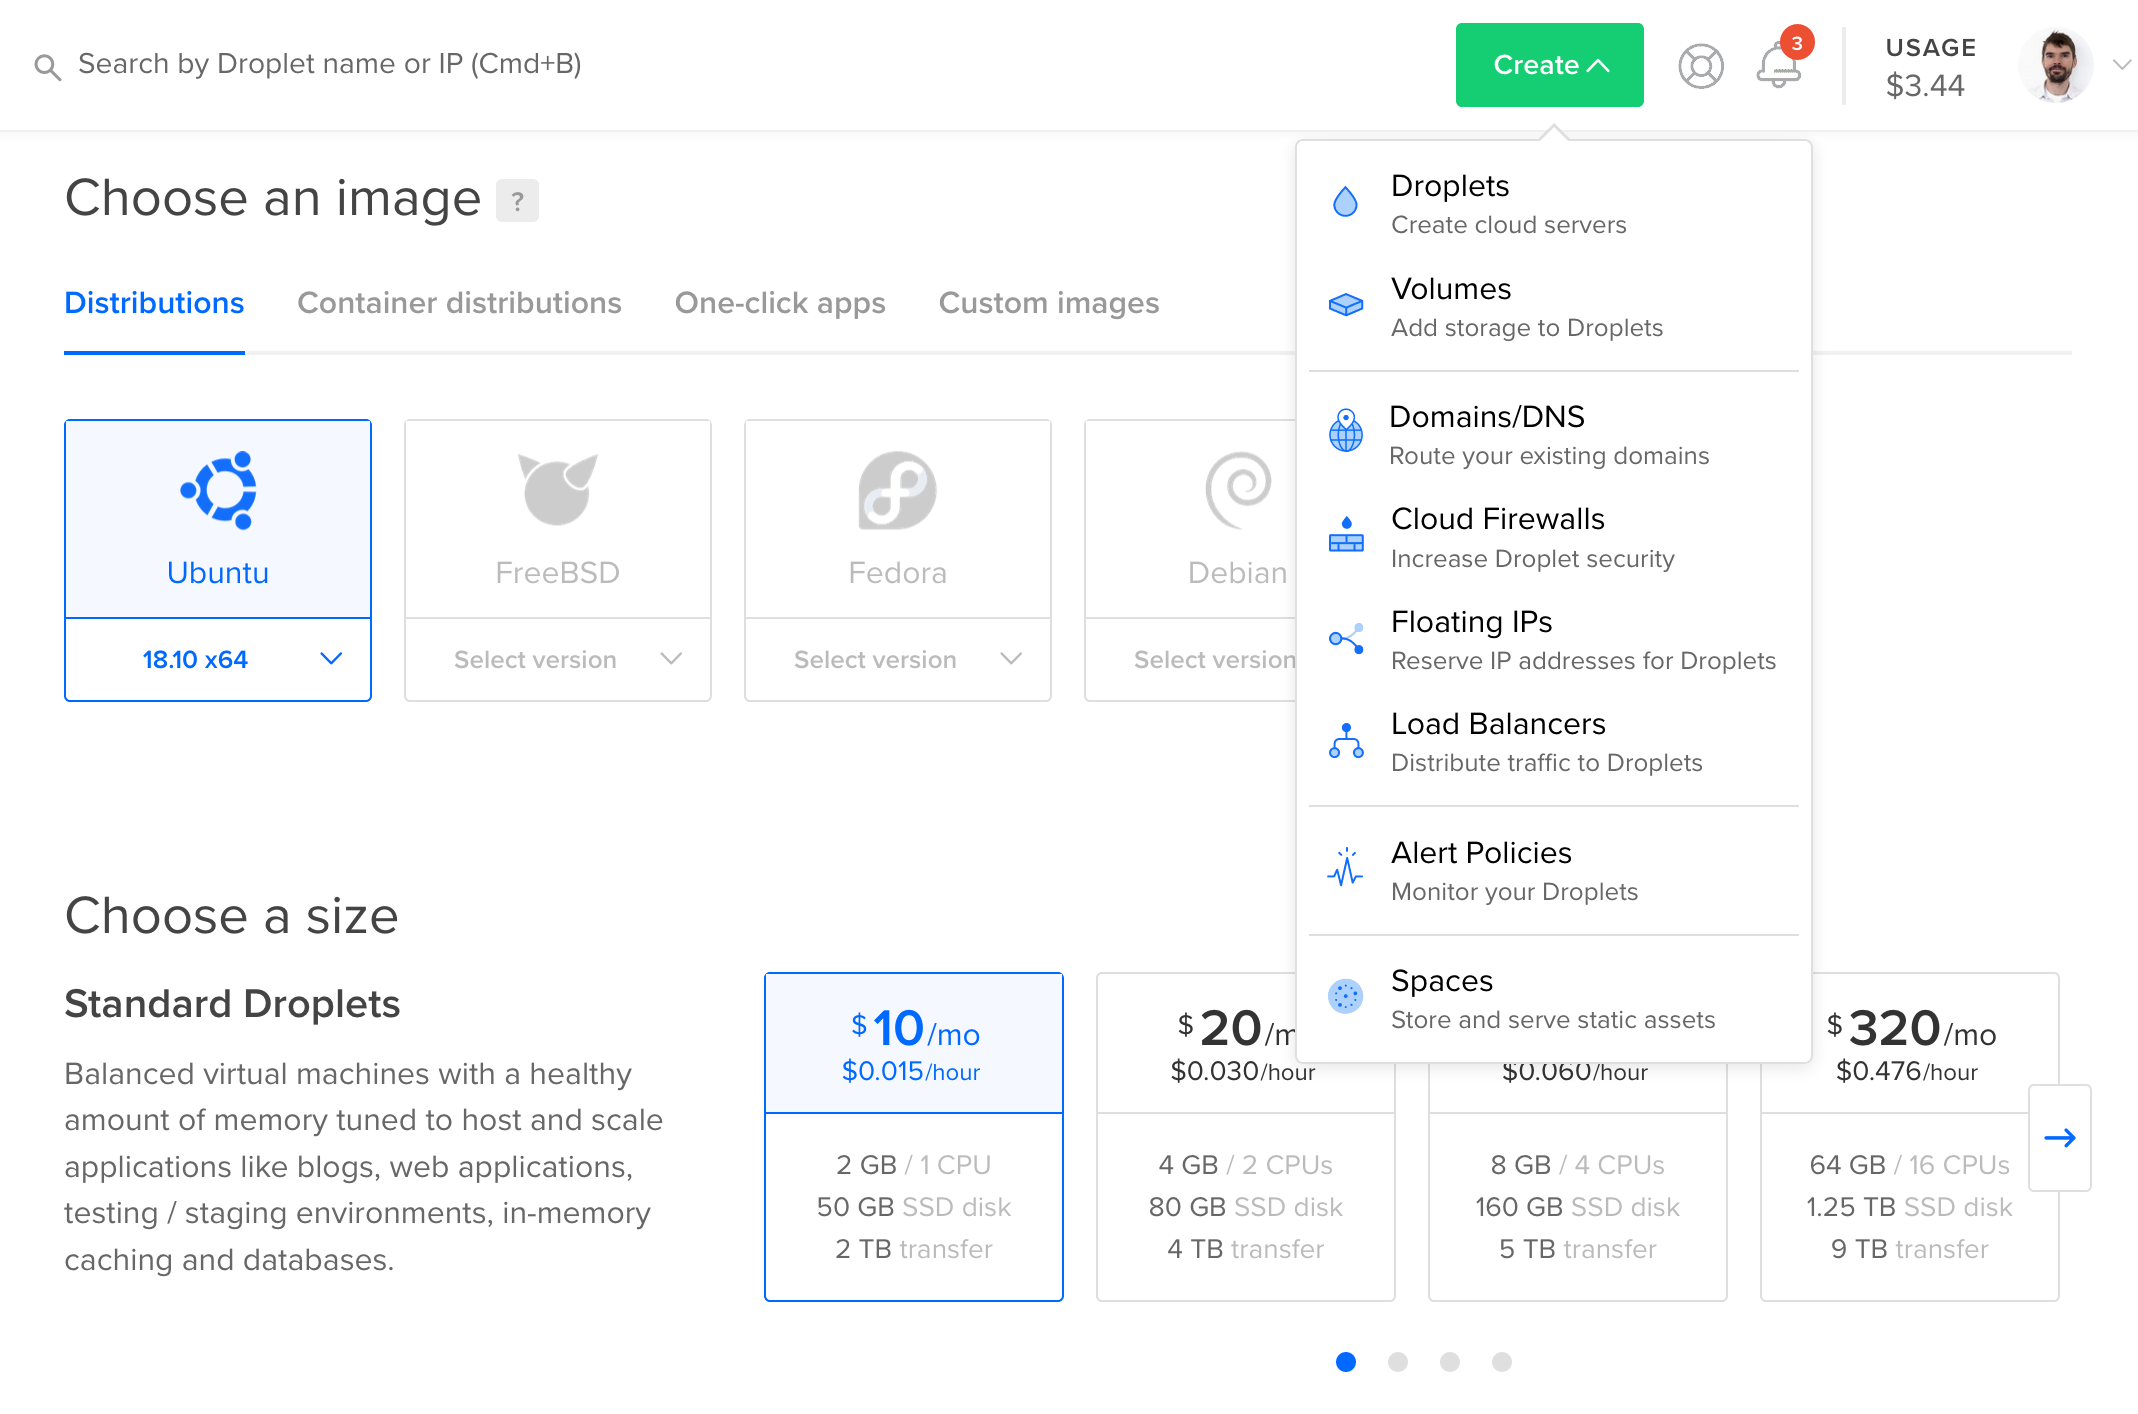
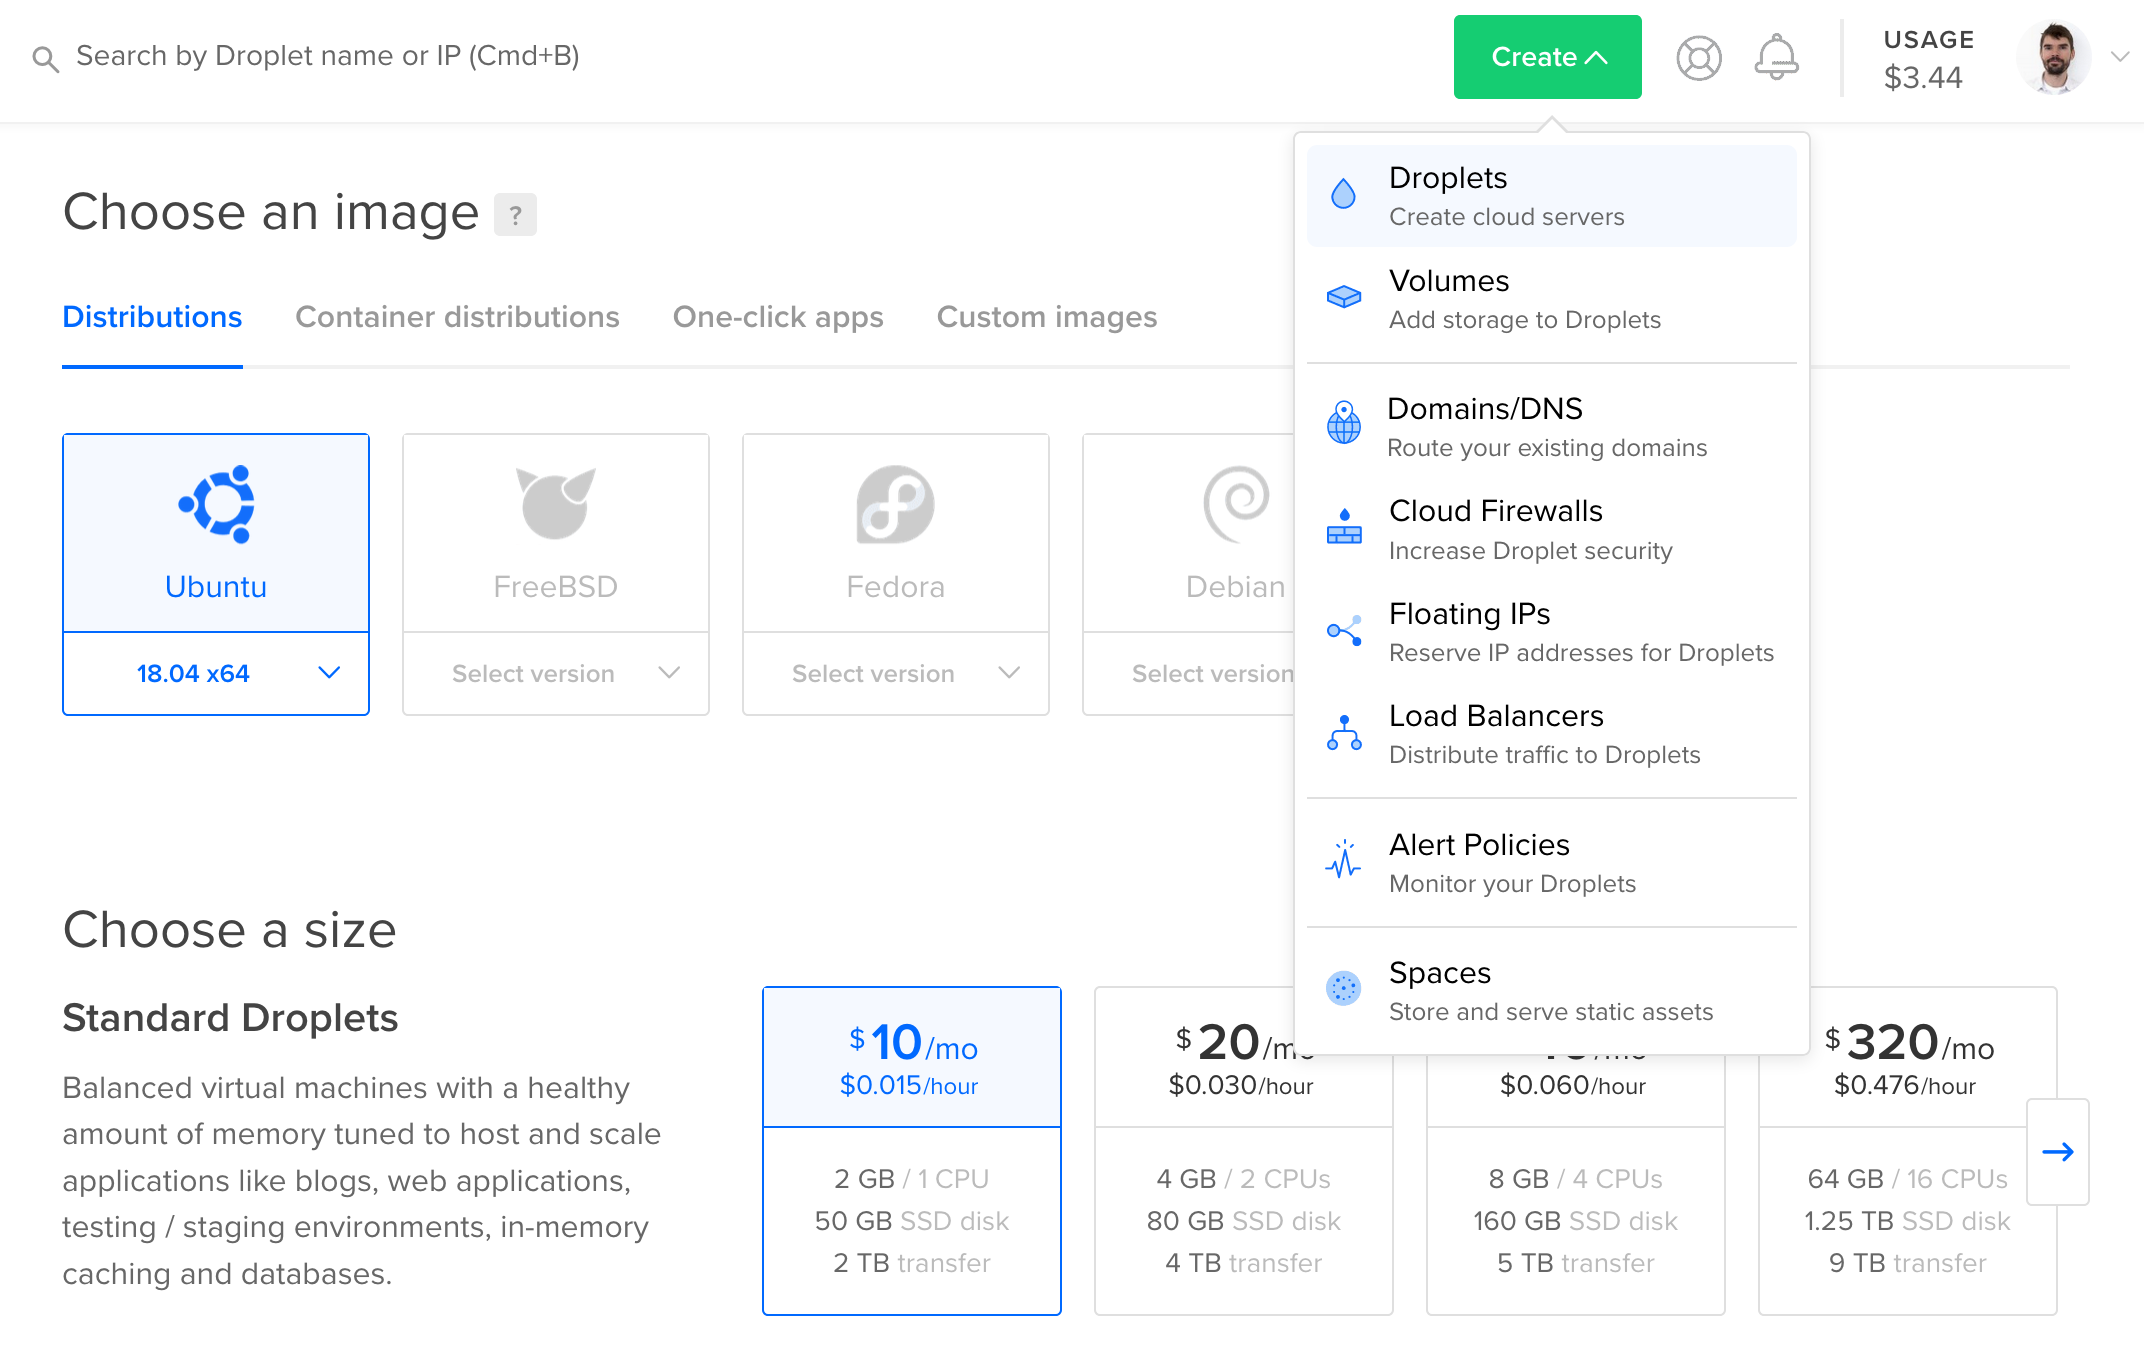
:wrench: more setup tweaks

diff --git a/setup/setup.md b/setup/setup.md
@@ -1,10 +1,10 @@
 # Server setup
 
-I've been running the public [organizer.network](https://organizer.network/) website on [pm2](http://pm2.keymetrics.io/) behind an [nginx reverse proxy](https://docs.nginx.com/nginx/admin-guide/web-server/reverse-proxy/). DigitalOcean has [a tutorial](https://www.digitalocean.com/community/tutorials/how-to-set-up-a-node-js-application-for-production-on-ubuntu-16-04) that might be worth looking at.
+We run the public [organizer.network](https://organizer.network/) website on [pm2](http://pm2.keymetrics.io/) behind an [nginx reverse proxy](https://docs.nginx.com/nginx/admin-guide/web-server/reverse-proxy/). DigitalOcean has [a tutorial](https://www.digitalocean.com/community/tutorials/how-to-set-up-a-node-js-application-for-production-on-ubuntu-16-04) that might be worth looking at.
 
-I'll describe the specific setup process here as a reference.
+I'll describe the specific setup process we used as a reference.
 
-* Create a new Ubuntu 18.10 Droplet on [Digital Ocean](https://www.digitalocean.com/) (or on your preferred hosting provider). The smallest size should be sufficient.
+* Create a new Ubuntu 18.04 Droplet on [Digital Ocean](https://www.digitalocean.com/) (or on your preferred hosting provider). The smallest size should be sufficient.
 
 ![Create Droplet](1.png)
 
@@ -22,6 +22,8 @@ I'll describe the specific setup process here as a reference.
 ```
 $ ssh root@[your ip address]
 ```
+
+Accept the SSH key fingerprint by typing `yes`. You only need to do this once.
 
 Note: SSH keys will only "just work" if you use the default `id_rsa` key name. Otherwise you'll need to set a `-i ~/.ssh/[your private key]` argument for the `ssh` command.
 

diff --git a/README.md b/README.md
@@ -13,7 +13,7 @@ _This has only been tested on macOS and Ubuntu, but there's no reason to think i
 Dependencies:
 
 * node.js 8 or 10 ([macOS](https://nodejs.org/en/), [Ubuntu](https://nodejs.org/en/download/package-manager/#debian-and-ubuntu-based-linux-distributions))
-* PostgreSQL 10.x ([macOS](https://wiki.postgresql.org/wiki/Homebrew), [Ubuntu](https://tecadmin.net/install-postgresql-server-on-ubuntu/))
+* PostgreSQL 10 or 11 ([macOS](https://wiki.postgresql.org/wiki/Homebrew), [Ubuntu](https://tecadmin.net/install-postgresql-server-on-ubuntu/))
 
 Clone the repo:
 
